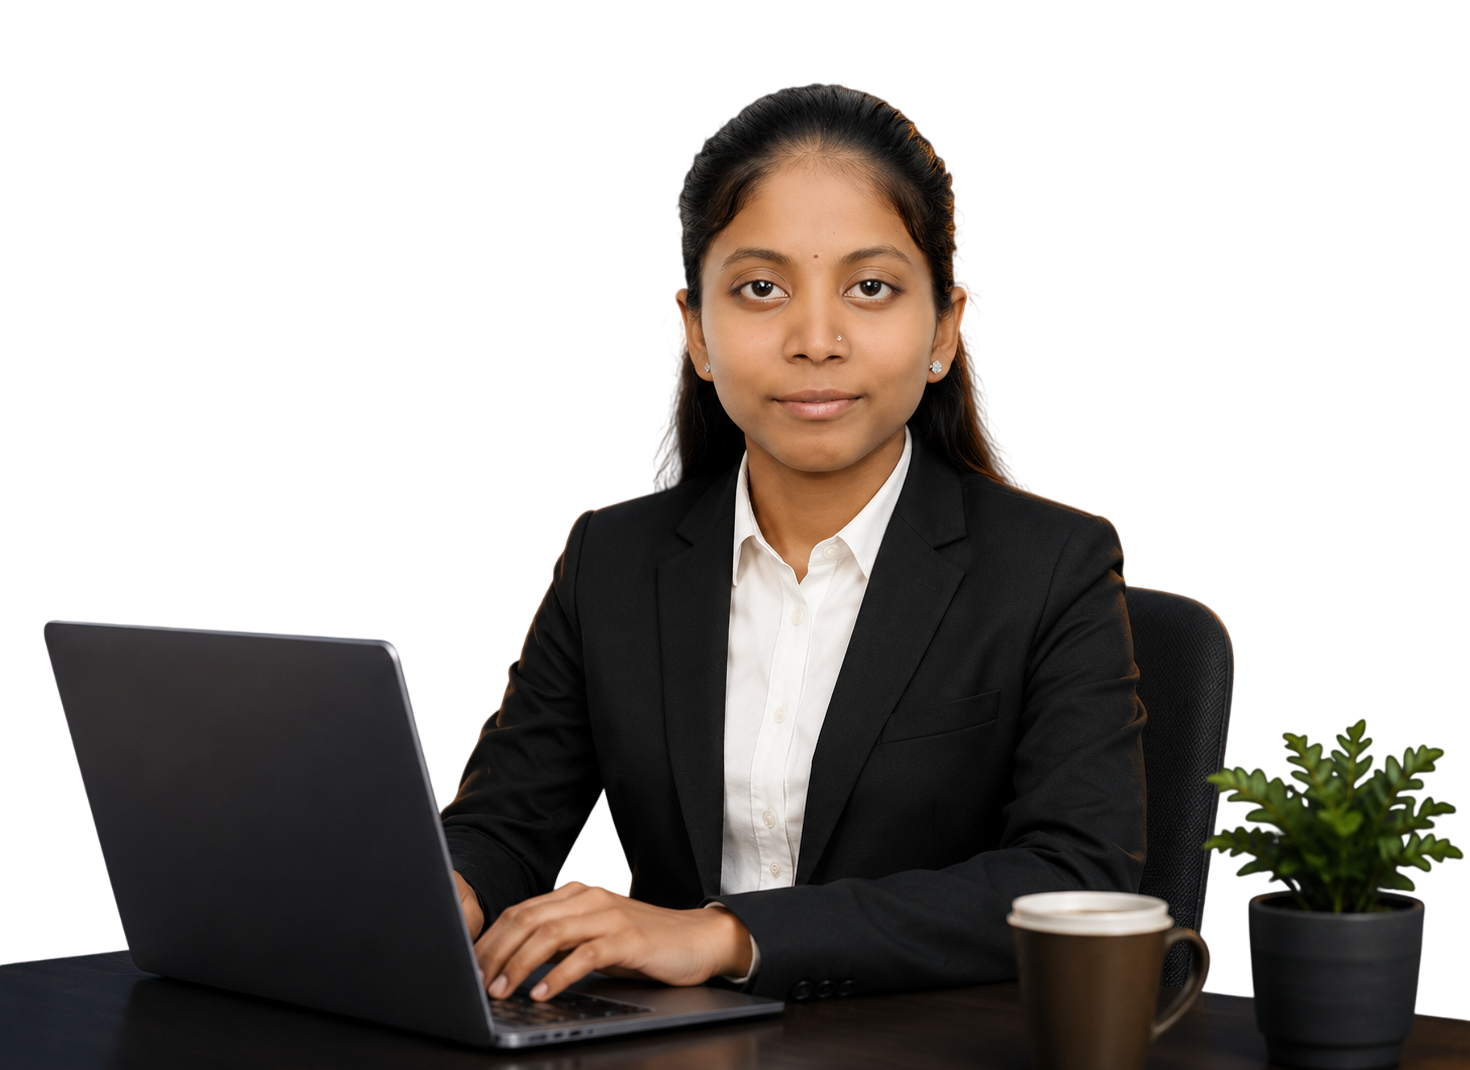
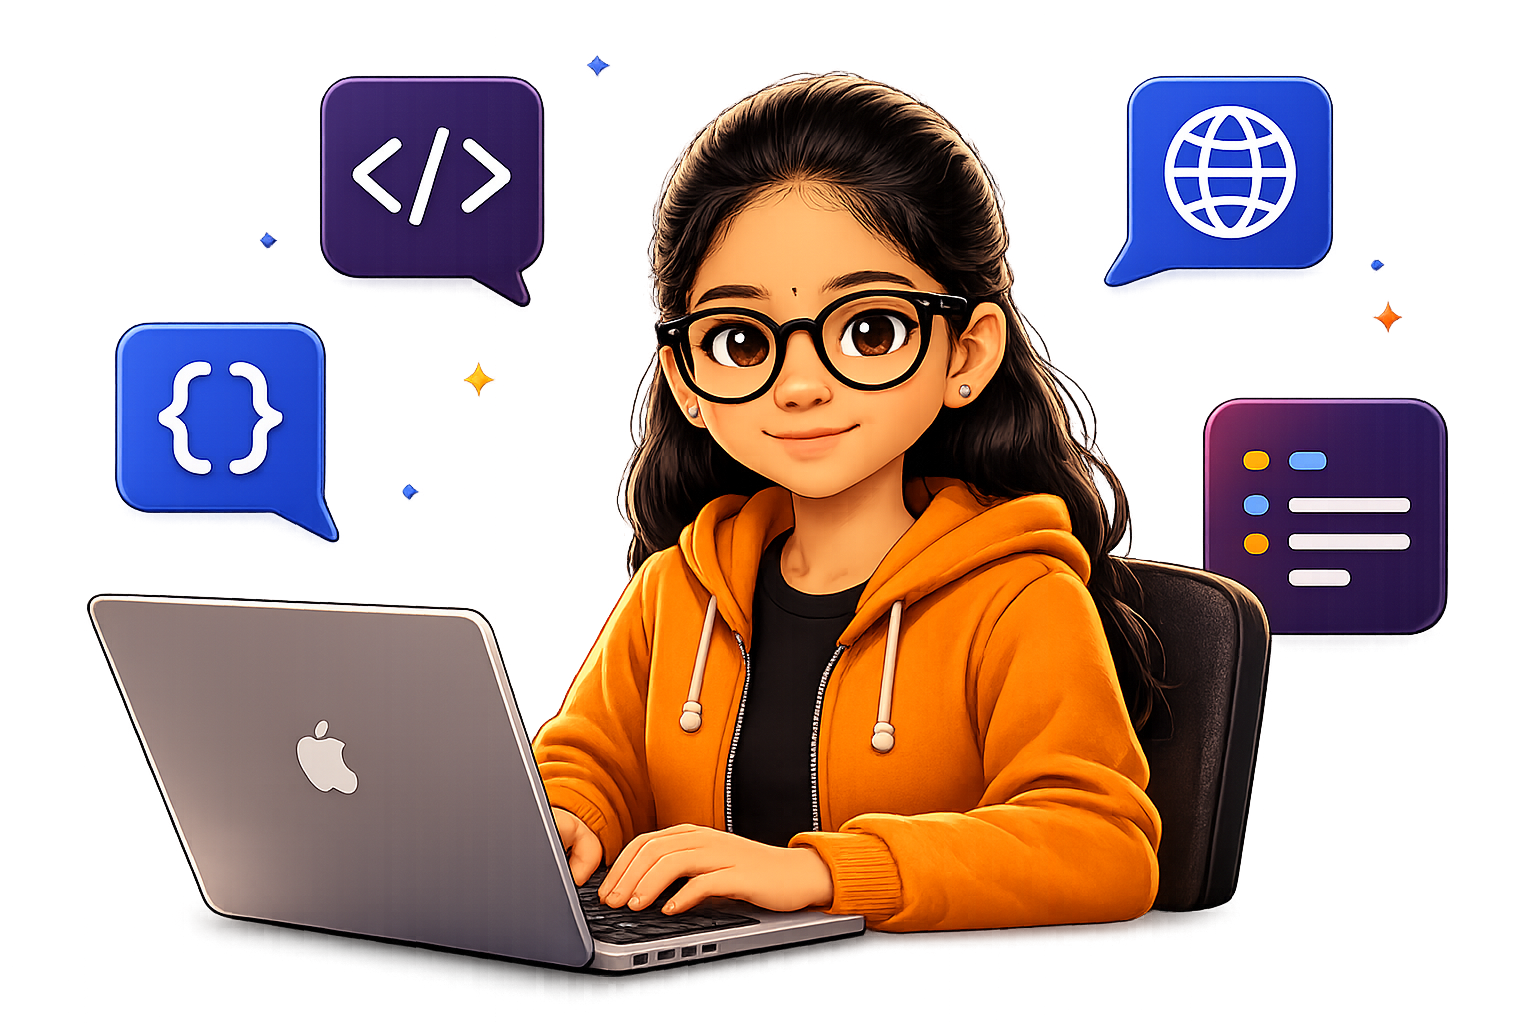
Add files via upload

diff --git a/index.html b/index.html
@@ -19,11 +19,11 @@
     nav{display:flex;gap:46px;align-items:center;font-size:14px}nav a{color:#fff;text-decoration:none;font-weight:600}nav a.active{color:var(--orange)}.hire{background:linear-gradient(135deg,#ff8b1a,#ff5f09);padding:16px 24px;border-radius:9px;color:#fff;text-decoration:none;font-weight:700;box-shadow:0 10px 22px rgba(255,121,15,.35)}
     .hero{position:relative;padding:70px 52px 28px;display:grid;grid-template-columns:48% 52%;overflow:hidden}.hero:after{content:"";position:absolute;right:-70px;top:0;width:260px;height:100%;background:radial-gradient(circle,#ff790f55,transparent 58%)}
     .dots{position:absolute;right:95px;top:18px;width:150px;height:90px;background-image:radial-gradient(var(--orange) 1.4px,transparent 1.4px);background-size:16px 16px;opacity:.75}.hero h3{font-size:32px;margin-bottom:20px}.hero h1{font-size:70px;line-height:1;font-weight:900;letter-spacing:-2px}.hero h1 span{color:var(--orange)}.hero h2{letter-spacing:17px;font-size:28px;margin-top:16px}.under{width:140px;height:3px;background:var(--orange);margin:16px 0 22px}.hero p{max-width:390px;color:#eef3fb;line-height:1.55;font-size:17px}.hero-img{position:relative;display:flex;align-items:flex-end;justify-content:center}.hero-img img{width:92%;max-height:465px;object-fit:cover;border-radius:22px;filter:drop-shadow(0 20px 35px rgba(0,0,0,.5))}.tech{display:flex;gap:14px;margin-top:22px}.tech .ico{width:62px;height:62px;border:1px solid #324760;border-radius:50%;display:grid;place-items:center;color:var(--orange);font-size:29px;background:#0c1b2d}.tech small{display:block;text-align:center;margin-top:7px;font-size:11px;color:#fff}
-    .grid{display:grid;grid-template-columns:1fr 1fr 1fr;gap:14px;margin-top:14px}.card{background:linear-gradient(145deg,#0b1c30,#071422);border:1px solid var(--line);border-radius:18px;padding:24px;box-shadow:inset 0 1px 0 rgba(255,255,255,.03)}.section-title{font-size:22px;font-weight:900;margin-bottom:22px;color:#fff}.section-title i,.section-title span{color:var(--orange)}
+    .grid{display:grid;grid-template-columns:1fr 1fr 1fr;gap:14px;margin-top:14px}.card{background:linear-gradient(145deg,#0b1c30,#071422);border:1px solid var(--line);border-radius:18px;padding:24px;box-shadow:inset 0 1px 0 rgba(255,255,255,.03)}.section-title{font-size:22px;font-weight:900;margin-bottom:22px;color:#fff}.section-title i{color:var(--orange)}
     .profile{grid-row:auto;grid-column:span 1}.profile .mini-card{display:none}.profile li{list-style:none;display:flex;gap:15px;align-items:flex-start;margin:22px 0;color:#eaf0f8;font-size:15px;line-height:1.4}.profile i{color:var(--orange);font-size:22px}.social{display:flex;gap:22px;margin:26px 0}.social a{width:44px;height:44px;border-radius:50%;display:grid;place-items:center;background:#18283b;color:#fff;font-size:20px;text-decoration:none}.mini-card{border-top:1px solid var(--line);padding-top:25px;margin-top:24px}.hobby{background:#122237;border-radius:10px;padding:16px;margin-top:15px;display:flex;gap:18px;align-items:center}
     .about{grid-column:span 1;min-height:100%}.about p{font-size:14px;line-height:1.7;color:#e5ebf4}.skills{grid-column:span 1}.bar{display:grid;grid-template-columns:105px 1fr 40px;gap:10px;align-items:center;margin:13px 0;font-size:13px}.track{height:5px;background:#26394d;border-radius:20px}.fill{height:100%;background:var(--orange);border-radius:20px}.expertise{grid-column:span 1}.ex-item{display:grid;grid-template-columns:52px 1fr;gap:16px;margin:22px 0}.ex-icon{height:52px;border:1px solid var(--orange);border-radius:10px;display:grid;place-items:center;color:var(--orange);font-size:25px}.ex-item h4{font-size:15px;margin-bottom:7px}.ex-item p{font-size:13px;line-height:1.55;color:#dfe6ee}
-    .education{grid-column:span 3}.edu-row{display:grid;grid-template-columns:1fr 1fr 1fr;gap:36px;position:relative}.edu{border:1px solid var(--line);border-radius:15px;padding:19px;background:#102136;min-height:120px}.edu h4{font-size:14px;line-height:1.5}.edu p{margin-top:12px;font-size:14px;line-height:1.6}.edu i{color:var(--orange);margin-right:12px}.experience{grid-column:span 3}.exp-row{display:grid;grid-template-columns:1fr 1fr;gap:18px}.job{border:1px solid var(--line);border-radius:15px;padding:18px;position:relative;background:#102136}.job h3{font-size:21px}.job .tag{display:inline-block;background:var(--orange);color:#111;padding:5px 9px;border-radius:5px;font-size:12px;font-weight:900;margin:9px 0}.job ul{padding-left:16px;font-size:13px;line-height:1.35}.job li::marker{color:var(--orange)}.job img{position:absolute;right:14px;top:16px;width:62px;height:62px;object-fit:contain;background:#fff;border-radius:13px;padding:6px}
-    .bottom{display:grid;grid-template-columns:1fr 1fr 1fr 1fr;gap:14px;margin-top:14px}.award li,.strength li{list-style:none;margin:12px 0;font-size:14px}.award i,.strength i{color:var(--orange);margin-right:10px}.lang .bar{grid-template-columns:70px 1fr 45px;font-size:15px}.avatar{display:grid;place-items:center}.avatar img{width:210px;max-width:100%;border-radius:18px}.footer{margin-top:14px;height:76px;display:flex;align-items:center;justify-content:space-between;padding:0 28px}.footer nav{gap:36px;font-size:12px}.copy{font-size:12px;color:#dce3ee}.heart{color:var(--orange)}
+    .education{grid-column:span 3}.edu-row{display:grid;grid-template-columns:1fr 1fr 1fr;gap:36px;position:relative}.edu{border:1px solid var(--line);border-radius:15px;padding:19px;background:#102136;min-height:120px}.edu h4{font-size:14px;line-height:1.5}.edu p{margin-top:12px;font-size:14px;line-height:1.6}.edu i{color:var(--orange);margin-right:12px}.experience{grid-column:span 3}.exp-row{display:grid;grid-template-columns:1fr 1fr;gap:18px}.job{border:1px solid var(--line);border-radius:15px;padding:18px;position:relative;background:#102136}.job h3{font-size:21px}.job .tag{display:inline-block;background:#ffffff;color:#102136;padding:5px 9px;border-radius:5px;font-size:12px;font-weight:900;margin:9px 0}.job ul{padding-left:16px;font-size:16px;line-height:2.15}.job li::marker{color:var(--orange)}.job img{position:absolute;right:14px;top:16px;height:62px;object-fit:contain;background:#fff;border-radius:13px;padding:6px}
+    .bottom{display:grid;grid-template-columns:1fr 1fr 1fr 1fr;gap:14px;margin-top:14px}.award li,.strength li{list-style:none;margin:12px 0;font-size:14px}.award i,.strength i{color:var(--orange);margin-right:10px}.lang .bar{grid-template-columns:70px 1fr 45px;font-size:15px}.avatar{display:grid;place-items:center}.avatar img{max-width:100%;border-radius:18px}.footer{margin-top:14px;height:76px;display:flex;align-items:center;justify-content:space-between;padding:0 28px}.footer nav{gap:36px;font-size:12px}.copy{font-size:12px;color:#dce3ee}.heart{color:var(--orange)}
     @media(max-width:1000px){.hero{grid-template-columns:1fr}.grid,.bottom{grid-template-columns:1fr}.profile,.about,.skills,.expertise,.education,.experience{grid-column:span 1}.edu-row,.exp-row{grid-template-columns:1fr}nav{display:none}.hero h1{font-size:46px}.hero h2{font-size:18px;letter-spacing:9px}.navbar{padding:0 20px}.hero{padding:42px 24px}.footer{height:auto;padding:24px;gap:18px;flex-direction:column}}
   </style>
 </head>
@@ -31,7 +31,7 @@
   <main class="page">
     <section class="glass">
       <header class="navbar">
-        <div class="logo"><div class="script">Komal <span>Kamble</span></div><small>WEB DEVELOPER</small></div>
+        <!-- <div class="logo"><div class="script">Komal <span>Kamble</span></div><small>WEB DEVELOPER</small></div> -->
         <nav><a class="active" href="#"><i class="fa-solid fa-house"></i> Home</a><a>About</a><a>Skills</a><a>Experience</a><a>Education</a><a>Contact</a></nav>
         <a class="hire" href="#">Hire Me <i class="fa-regular fa-paper-plane"></i></a>
       </header>
@@ -85,14 +85,14 @@
         <div class="ex-item"><div class="ex-icon"><i class="fa-solid fa-database"></i></div><div><h4>Database & Hosting</h4><p>MySQL, phpMyAdmin, cPanel, XAMPP, Git and AWS</p></div></div>
       </div>
       <div class="card education"><h2 class="section-title"><i class="fa-solid fa-graduation-cap"></i> EDUCATION</h2><div class="edu-row"><div class="edu"><h4><i class="fa-regular fa-building"></i>SIDIMS (SNDT University),<br>Grand Road</h4><p><i class="fa-regular fa-calendar-days"></i>2018 - 2020<br>BCA (BACHELOR OF COMPUTER APPLICATION)</p></div><div class="edu"><h4><i class="fa-solid fa-building-columns"></i>B.M. Ruia Girls College,<br>Grand Road</h4><p><i class="fa-regular fa-calendar-days"></i>2017-2018<br>HSC</p></div><div class="edu"><h4><i class="fa-regular fa-building"></i>L.P. Girls School,<br>Dadar</h4><p><i class="fa-regular fa-calendar-days"></i>2015 -2016<br>SSC</p></div></div></div>
-      <div class="card experience"><h2 class="section-title"><i class="fa-solid fa-briefcase"></i> <span>EXPERIENCE</span></h2><div class="exp-row"><div class="job"><img src="https://dummyimage.com/80x80/ffffff/111&text=Kokan" alt="Kokan"><h3>Kokan NGO India</h3><p>2022 - Present</p><b class="tag">WEB DEVELOPER</b><ul><li>Managed NGO websites with CodeIgniter 4 and Laravel.</li><li>Created responsive pages using HTML, CSS, and JavaScript.</li><li>Integrated Easebuzz Payment Gateway and admin features.</li><li>Designed UI elements in Photoshop and CorelDRAW.</li></ul></div><div class="job"><img src="https://dummyimage.com/80x80/ffffff/f04444&text=46" alt="Fourty60"><h3>Fourty60</h3><p>Nov 2020 – Apr 2021</p><b class="tag">FRONT END DEVELOPER</b><ul><li>Assisted in developing responsive websites using HTML, CSS, JavaScript, and Bootstrap.</li><li>Worked with senior developers to fix bugs and improve layouts.</li><li>Participated in team meetings and project planning.</li></ul></div></div></div>
+      <div class="card experience"><h2 class="section-title"><i class="fa-solid fa-briefcase"></i> <span>EXPERIENCE</span></h2><div class="exp-row"><div class="job"><img src="kokan logo.png" alt="Kokan"><h3>Kokan NGO India</h3><p>2022 - Present</p><b class="tag">WEB DEVELOPER</b><ul><li>Managed NGO websites with CodeIgniter 4 and Laravel.</li><li>Created responsive pages using HTML, CSS, and JavaScript.</li><li>Integrated Easebuzz Payment Gateway and admin features.</li><li>Designed UI elements in Photoshop and CorelDRAW.</li></ul></div><div class="job"><img src="fourty60-logo.png" alt="Fourty60 Infotech"><h3>Fourty60 Infotech</h3><p>Nov 2020 – Apr 2021</p><b class="tag">FRONT END DEVELOPER</b><ul><li>Assisted in developing responsive websites using HTML, CSS, JavaScript, and Bootstrap.</li><li>Worked with senior developers to fix bugs and improve layouts.</li><li>Participated in team meetings and project planning.</li></ul></div></div></div>
     </section>
 
     <section class="bottom">
       <div class="card award"><h2 class="section-title"><i class="fa-solid fa-trophy"></i> <span>ACHIEVEMENT</span></h2><ul><li><i class="fa-solid fa-star"></i>Beyond Duties Award</li><li><i class="fa-solid fa-star"></i>Best Employee of the Year</li><li><i class="fa-solid fa-star"></i>Best Team of the Year</li><li><i class="fa-solid fa-star"></i>Punctual Employee Award</li></ul></div>
       <div class="card strength"><h2 class="section-title"><i class="fa-solid fa-shield-halved"></i> <span>CORE</span> STRENGTHS</h2><ul><li><i class="fa-solid fa-circle-check"></i>Web Design</li><li><i class="fa-solid fa-circle-check"></i>Design Thinking</li><li><i class="fa-solid fa-circle-check"></i>Wireframe Creation</li><li><i class="fa-solid fa-circle-check"></i>Front End Coding</li></ul></div>
       <div class="card lang"><h2 class="section-title"><i class="fa-solid fa-globe"></i> <span>LANGUAGE</span></h2><div class="bar"><b>English</b><div class="track"><div class="fill" style="width:90%"></div></div><span>90%</span></div><div class="bar"><b>Hindi</b><div class="track"><div class="fill" style="width:90%"></div></div><span>90%</span></div><div class="bar"><b>Marathi</b><div class="track"><div class="fill" style="width:85%"></div></div><span>85%</span></div></div>
-      <div class="card avatar"><img src="https://api.dicebear.com/9.x/adventurer/svg?seed=komal&backgroundColor=transparent" alt="avatar"></div>
+      <div class="avatar"><img src="footer.png" alt="avatar"></div>
     </section>
 
     <footer class="glass footer"><div class="logo"><div class="script">Komal <span>Kamble</span></div><small>WEB DEVELOPER</small></div><nav><a>Home</a><a>About</a><a>Skills</a><a>Experience</a><a>Education</a><a>Contact</a></nav><div class="social"><a><i class="fa-brands fa-linkedin-in"></i></a><a><i class="fa-brands fa-github"></i></a><a><i class="fa-brands fa-twitter"></i></a></div><p class="copy">© 2024 Komal Kamble. All rights reserved. <span class="heart">♥</span></p></footer>
